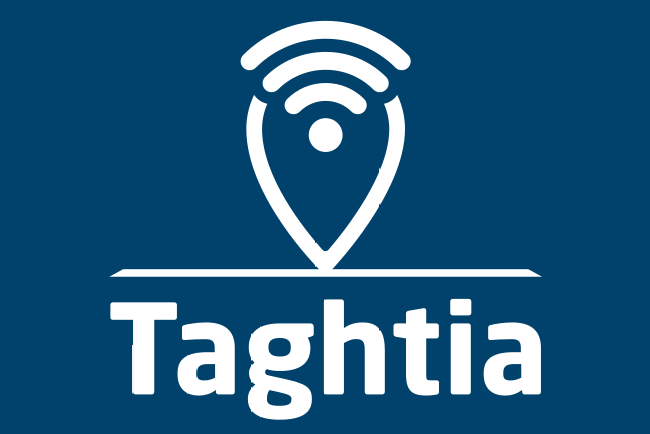
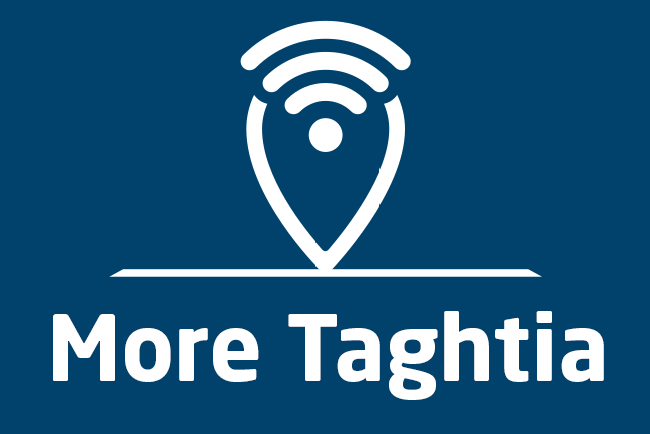
v1.1

Changed region(s): [[0.0615, 0.6889, 0.9538, 0.9885]]

diff --git a/style.css b/style.css
@@ -3,6 +3,7 @@ html, body {
 	width: 100%;
 	margin: 0;
 	padding: 0;
+  overflow: hidden;
 }
 
 #map-display {
@@ -30,7 +31,8 @@ div#panel {
   position: absolute;
   top: 159px;
   padding-top: 8px;          /* needed to move the content below the gray shadow specified in the header */
-  height: calc(100% - 159px); /* calc is used to substract the height of the navbar */
+  height: 100%; /* calc is used to substract the height of the navbar */
+
   width: 300px;
   background-color: #fafafa;
   opacity: 0.92;

diff --git a/index.html b/index.html
@@ -22,7 +22,6 @@
     
     <div class="navbar-header">
         <img src="taghtia.png" alt="taghtia" width="80" height="53" style="margin-left: 10px; margin-right: 10px; margin-top: 5px; margin-bottom: 5px;"/>
-     <a style="margin-left: 10px; color: #ffffff;" class="navbar-brand" href="#">More Taghtia</a>
     </div>
     
    </nav>
